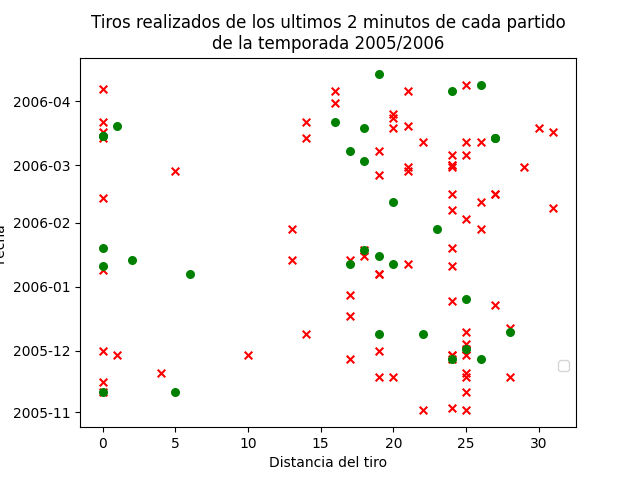
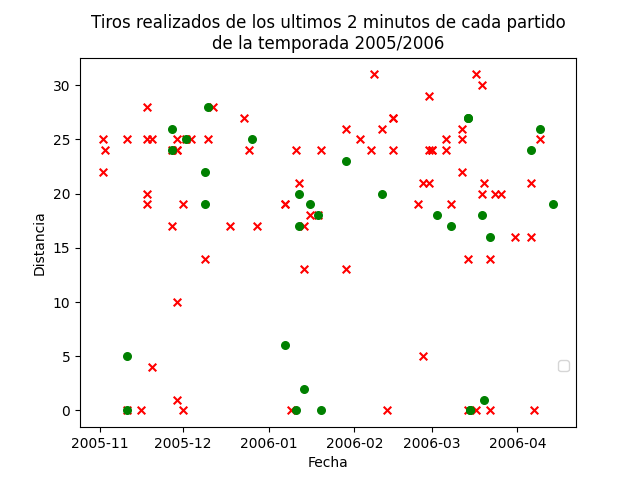
Cambiando graficas

diff --git a/Practica7.py b/Practica7.py
@@ -10,13 +10,14 @@ def Distancia_Minutos_Clutch_Prime():
     datos2 = datos[(datos["minutes_remaining"] <= 2) & (datos["period"] == 4) & (datos['shot_made_flag'] == 1.0)
                & ((datos['game_date'] >= '2005-11-01') & (datos['game_date'] < '2006-04-19'))]
 
-    plt.scatter(datos1["shot_distance"], pd.to_datetime(datos1["game_date"]), marker="x", s=30, color="red")
-    plt.scatter(datos2["shot_distance"], pd.to_datetime(datos2["game_date"]), marker="o", s=30, color="green")
+    plt.scatter(pd.to_datetime(datos1["game_date"]), datos1["shot_distance"], marker="x", s=30, color="red")
+    plt.scatter(pd.to_datetime(datos2["game_date"]), datos2["shot_distance"], marker="o", s=30, color="green")
 
-    plt.xlabel("Distancia del tiro")
-    plt.ylabel("Fecha")
+    plt.xlabel("Fecha")
+    plt.ylabel("Distancia")
     plt.title('Tiros realizados de los ultimos 2 minutos de cada partido\nde la temporada 2005/2006')
     plt.legend(bbox_to_anchor=(1,0.2))
     plt.savefig("Graficas_P7/Distancia_Minutos_Clutch_Prime.png")
+
 
 Distancia_Minutos_Clutch_Prime()

diff --git a/Practica4.py b/Practica4.py
@@ -17,17 +17,19 @@ def pie_Opponent():
 
     plt.savefig("Graficas_P4/p_Opponent.png")
 
-def pie_ActionType():
+def pie_ZonaTiro():
     
-    df_aux = df.groupby('action_type')['action_type'].value_counts()
-    df_aux.plot.pie(y='Movimiento', figsize=(10,10), autopct="%1.0f%%")
+    grouped = df.groupby(['shot_zone_area', 'shot_type']).size().unstack()
 
-    plt.savefig("Graficas_P4/p_Movimiento.png")
+    grouped.plot(kind='barh', stacked=True, figsize=(10, 8))
+    plt.xlabel('Cantidad')
+    plt.ylabel('Zona de tiro')
+    plt.title('Distribucion de los tiros de acuerdo a la zona')
+    
+    plt.savefig("Graficas_P4/p_ZonaTiro.png")
 
 boxplot_Shot_Distance_Opponent()
 plt.gcf().clear()
 pie_Opponent()
 plt.gcf().clear()
-pie_ActionType()
-plt.gcf().clear()
-pie_ShotZone()
+pie_ZonaTiro()

diff --git a/Practica9.py b/Practica9.py
@@ -4,13 +4,13 @@ import matplotlib.pyplot as plt
 
 datos = pd.read_csv('Kobe_shots_cleanData.csv')
 
-def prediccion_tirosAnotados_Lesion():
+def prediccion_tirosAnotados_PreLesion():
 
     datos['game_date'] = pd.to_datetime(datos['game_date']).dt.year
 
     c1 = datos["shot_made_flag"] == 1
-    c2 = datos["game_date"] >= 1996
-    c3 = datos["game_date"] <= 2006
+    c2 = datos["game_date"] >= 2006
+    c3 = datos["game_date"] <= 2013
 
     dfGroup = datos[c1 & c2 & c3]
     
@@ -31,4 +31,4 @@ def prediccion_tirosAnotados_Lesion():
     plt.title('Prediccion de puntos por temporada')
     plt.savefig("Graficas_P9/Prediccion_Puntos_Temporada.png")
 
-prediccion_tirosAnotados_Lesion()
+prediccion_tirosAnotados_PreLesion()

diff --git a/Practica8.py b/Practica8.py
@@ -3,10 +3,10 @@ import matplotlib.pyplot as plt
 from sklearn.cluster import KMeans
 
 datos = pd.read_csv('Kobe_shots_cleanData.csv')
-datos = datos[(datos["shot_type"] == 3)]
-df = datos[["shot_distance", "minutes_remaining"]]
+datos_aux = datos[(datos["shot_type"] == 3)]
+df = datos_aux[["shot_distance", "minutes_remaining"]]
 
-def Kmeans():
+def Kmeans1():
 
     for i in range(1,6):
 
@@ -19,4 +19,4 @@ def Kmeans():
         plt.savefig("Graficas_P8/K = " + str(i) + ".png")
         plt.clf()
 
-Kmeans()
+Kmeans1()
